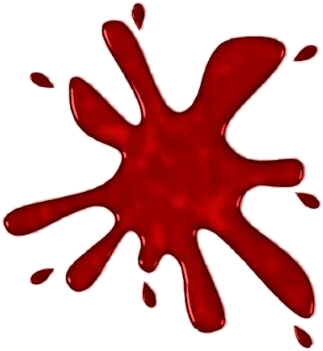
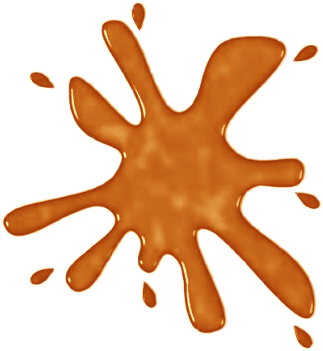
style(recibo): 🍯 armonizar color de la mancha de salsa a tono ámbar gourmet cálido alineado al branding

diff --git a/src/app/globals.css b/src/app/globals.css
@@ -3937,8 +3937,8 @@ a {
   right: -24px;
   pointer-events: none;
   z-index: 1;
-  opacity: 0.88;
-  filter: drop-shadow(0 4px 10px rgba(139, 0, 0, 0.28));
+  opacity: 0.90;
+  filter: drop-shadow(0 4px 10px rgba(180, 83, 9, 0.28));
   user-select: none;
 }
 
